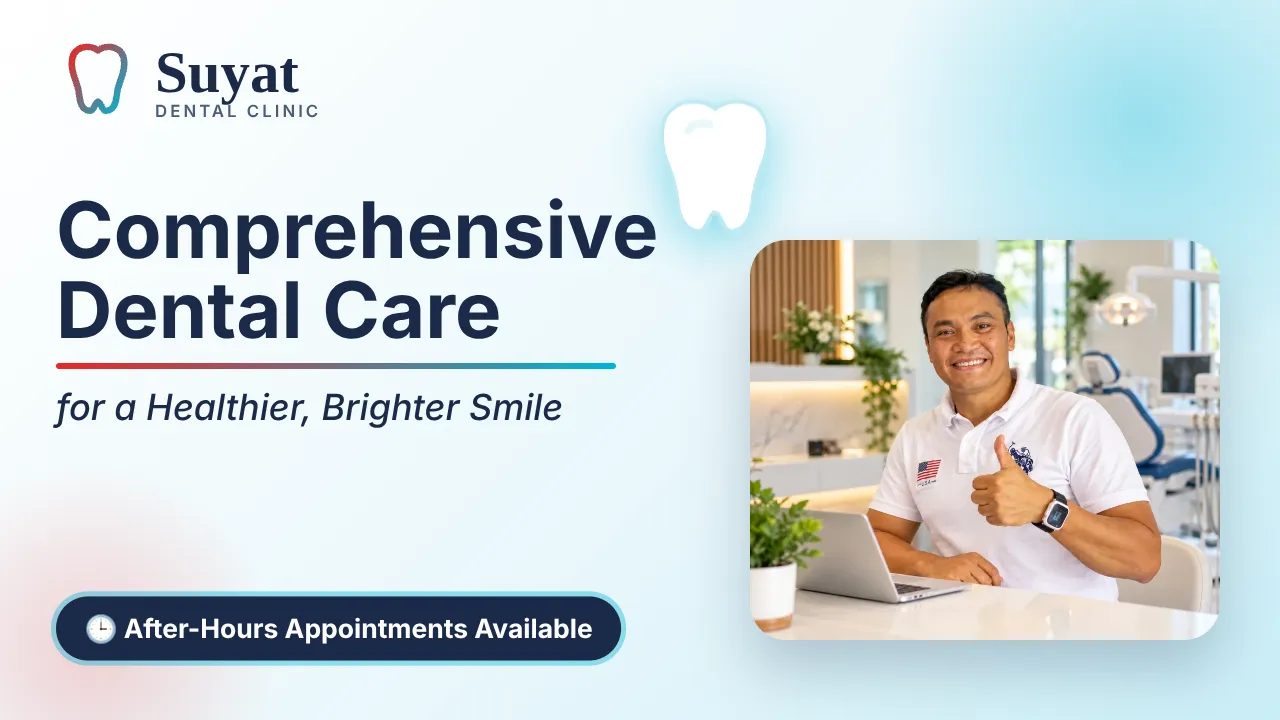
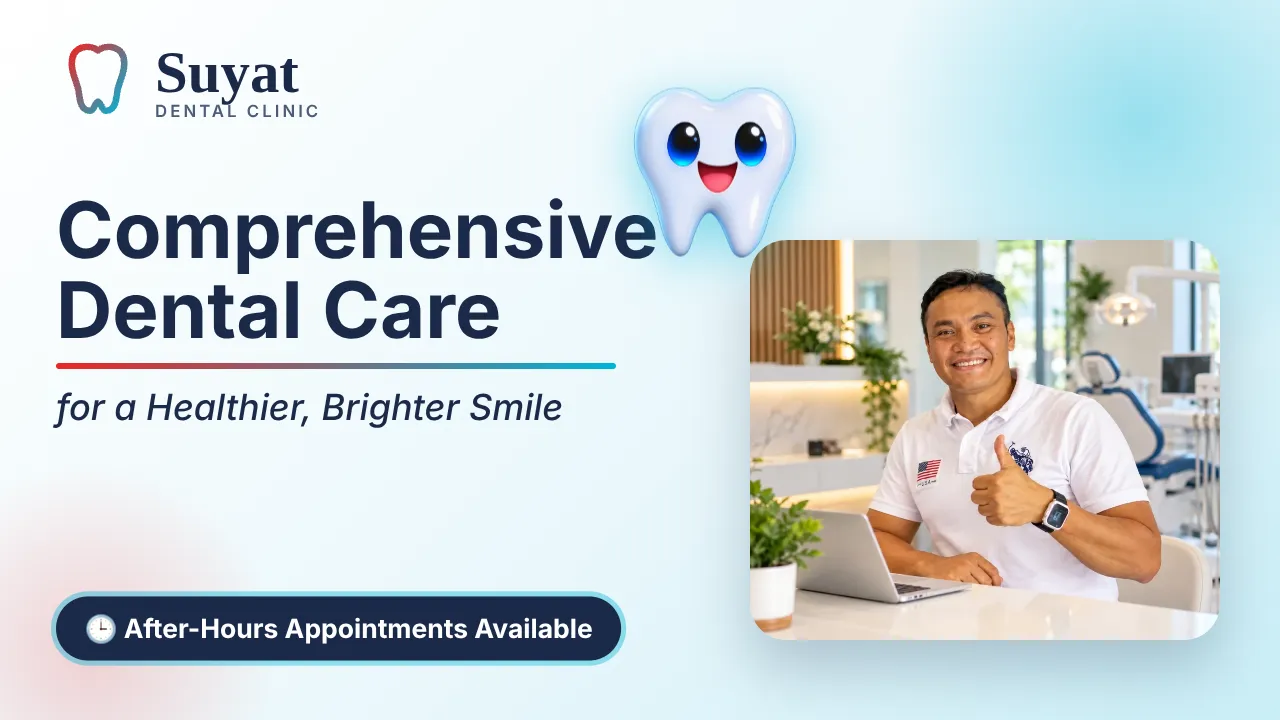
feat(web): tooth mascot as the site receptionist
- Receptionist avatar component with idle/thinking/listening/speaking states (reduced-motion safe)
- Used in chat header, bot messages, call modal, hero reel, and a floating 'Need help booking?' button
- Mascot cutout cleaned of edge specks; webp 512/128 added; name/image configurable in CLINIC

Claude-Session: https://claude.ai/code/session_01Xw22wCxDq376Az2oHFCgJc

Changed region(s): [[0.4688, 0.1222, 0.6562, 0.3667]]

diff --git a/web/src/components/ChatPanel.tsx b/web/src/components/ChatPanel.tsx
@@ -4,6 +4,7 @@ import { useChat } from '../hooks/useChat';
 import { speak, stopSpeaking, useSpeechInput } from '../hooks/useSpeech';
 import { RemotionClip, type Clip } from './RemotionPlayer';
 import { CallModal } from './CallModal';
+import { Receptionist, type ReceptionistState } from './Receptionist';
 
 export interface Pending {
   text: string;
@@ -58,6 +59,7 @@ export function ChatPanel({ pending }: { pending: Pending | null }) {
   useEffect(() => () => stopSpeaking(), []);
 
   const state = mic.listening ? 'listening' : speaking ? 'speaking' : 'idle';
+  const face: ReceptionistState = busy ? 'thinking' : state;
 
   const toggleMic = () => {
     setMicNote('');
@@ -68,11 +70,14 @@ export function ChatPanel({ pending }: { pending: Pending | null }) {
   return (
     <div className="assistant">
       <div className="assistant-head">
-        <div>
-          <h3>24/7 AI Receptionist</h3>
-          <p className="muted small" aria-live="polite">
-            {mic.listening ? 'Listening…' : speaking ? 'Speaking…' : busy ? 'Typing…' : 'Online now'}
-          </p>
+        <div className="assistant-id">
+          <Receptionist size={64} state={face} />
+          <div>
+            <h3>{CLINIC.receptionistName}</h3>
+            <p className="muted small" aria-live="polite">
+              24/7 AI receptionist · {mic.listening ? 'Listening…' : speaking ? 'Speaking…' : busy ? 'Typing…' : 'Online now'}
+            </p>
+          </div>
         </div>
         <div className="seg" role="group" aria-label="Assistant">
           <button aria-pressed={mode === 'local'} onClick={() => setMode('local')}>{CLINIC.shortName}</button>
@@ -85,6 +90,7 @@ export function ChatPanel({ pending }: { pending: Pending | null }) {
       <div ref={log} className="chat-log" role="log" aria-live="polite" aria-label="Conversation">
         {messages.map((m) => (
           <div key={m.id} className={`msg ${m.role}`}>
+            {m.role !== 'user' && <Receptionist size={32} ring={false} />}
             <span className="bubble">
               {m.text}
               {m.receiptUrl && (
@@ -97,6 +103,7 @@ export function ChatPanel({ pending }: { pending: Pending | null }) {
         ))}
         {busy && (
           <div className="msg bot" aria-hidden>
+            <Receptionist size={32} ring={false} state="thinking" />
             <span className="bubble typing"><i /><i /><i /></span>
           </div>
         )}

diff --git a/web/src/styles/app.css b/web/src/styles/app.css
@@ -167,3 +167,24 @@ input:focus-visible, select:focus-visible { border-color: var(--cyan); }
   *, *::before, *::after { animation-duration: .001ms !important; animation-iteration-count: 1 !important; transition-duration: .001ms !important; }
   .reveal { opacity: 1; transform: none; }
 }
+
+/* ===== Receptionist avatar ===== */
+.avatar { position: relative; display: inline-grid; place-items: center; flex: none; border-radius: 50%; }
+.avatar img { width: 100%; height: 100%; object-fit: contain; display: block; transform-origin: 50% 90%; }
+.avatar--ring { background: var(--cyan-soft); box-shadow: inset 0 0 0 2px var(--border); padding: 6%; }
+.avatar--idle img { animation: avatar-float 4s ease-in-out infinite; }
+.avatar--thinking img { animation: avatar-tilt 1.2s ease-in-out infinite; }
+.avatar--speaking img { animation: avatar-talk .45s ease-in-out infinite; }
+.avatar--listening { box-shadow: 0 0 0 3px var(--red); animation: avatar-pulse 1.2s ease-out infinite; }
+@keyframes avatar-float { 50% { transform: translateY(-4%); } }
+@keyframes avatar-tilt { 25% { transform: rotate(-6deg); } 75% { transform: rotate(6deg); } }
+@keyframes avatar-talk { 50% { transform: scale(1.06, 0.95); } }
+@keyframes avatar-pulse { 70% { box-shadow: 0 0 0 12px rgba(234, 40, 37, 0); } 100% { box-shadow: 0 0 0 3px var(--red); } }
+.assistant-id { display: flex; align-items: center; gap: 14px; min-width: 0; }
+.msg { align-items: flex-end; gap: 8px; }
+.msg.user { justify-content: flex-end; }
+.call-face { display: grid; place-items: center; padding-top: 4px; }
+.fab { position: fixed; right: max(16px, env(safe-area-inset-right)); bottom: max(16px, env(safe-area-inset-bottom)); z-index: 60; display: flex; align-items: center; gap: 10px; padding: 6px 18px 6px 6px; min-height: 56px; border: 2px solid var(--border); border-radius: 999px; background: var(--surface); color: var(--text); box-shadow: var(--shadow); font: 700 .95rem var(--font); cursor: pointer; animation: rise .6s 1.2s both; transition: transform .2s; }
+.fab:hover { transform: translateY(-2px); }
+@media (max-width: 520px) { .fab__label { display: none; } .fab { padding: 4px; } }
+@media (prefers-reduced-motion: reduce) { .avatar img, .avatar--listening, .fab { animation: none !important; } }

diff --git a/web/src/components/CallModal.tsx b/web/src/components/CallModal.tsx
@@ -2,6 +2,7 @@ import { useEffect, useRef, useState } from 'react';
 import { CLINIC } from '../config/clinic';
 import { speak, stopSpeaking, useSpeechInput } from '../hooks/useSpeech';
 import { RemotionClip, type Clip } from './RemotionPlayer';
+import { Receptionist } from './Receptionist';
 
 interface Line { who: 'you' | 'clinic'; text: string }
 
@@ -89,6 +90,7 @@ export function CallModal({ onClose }: { onClose: () => void }) {
     <div className="modal-backdrop" onMouseDown={(e) => e.target === e.currentTarget && close()}>
       <div ref={dlg} className="modal call" role="dialog" aria-modal="true" aria-labelledby="call-title">
         <h3 id="call-title">{CLINIC.name} — virtual call <span className="muted" aria-label={`Call time ${mm}:${ss}`}>{mm}:{ss}</span></h3>
+        <div className="call-face"><Receptionist size={112} state={mic.listening ? 'listening' : speaking ? 'speaking' : busy ? 'thinking' : 'idle'} /></div>
         <RemotionClip clip={wave} className="wave" />
         <div className="transcript" role="log" aria-live="polite">
           {lines.length === 0 && <p className="muted">Tap the microphone and speak. Your browser will ask for permission.</p>}

diff --git a/web/src/remotion/HeroReel.tsx b/web/src/remotion/HeroReel.tsx
@@ -1,7 +1,6 @@
 import React from 'react';
 import { AbsoluteFill, Img, interpolate, spring, staticFile, useCurrentFrame, useVideoConfig } from 'remotion';
 import { C, FONT, FONT_DISPLAY } from './theme';
-import { Tooth } from './Tooth';
 import { Logo } from '../components/Logo';
 import { CLINIC } from '../config/clinic';
 
@@ -76,7 +75,7 @@ export const HeroReel: React.FC = () => {
       </div>
 
       <div style={{ position: 'absolute', right: (vertical ? 60 : 480) * u, top: (vertical ? 470 : 80) * u, transform: `translateY(${float}px) scale(${tooth}) rotate(${interpolate(tooth, [0, 1], [-30, 0])}deg)` }}>
-        <Tooth size={(vertical ? 220 : 170) * u} />
+        <Img src={staticFile('images/receptionist.webp')} style={{ width: (vertical ? 220 : 170) * u, height: (vertical ? 220 : 170) * u, filter: 'drop-shadow(0 12px 24px rgba(0,180,216,.45))' }} />
       </div>
 
       <div

diff --git a/web/src/pages/Landing.tsx b/web/src/pages/Landing.tsx
@@ -2,6 +2,8 @@ import { useCallback, useState } from 'react';
 import { Header } from '../components/Header';
 import { Branches, Footer, Hero, HowItWorks, Services } from '../components/Sections';
 import { ChatPanel, type Pending } from '../components/ChatPanel';
+import { Receptionist } from '../components/Receptionist';
+import { CLINIC } from '../config/clinic';
 
 export default function Landing() {
   const [pending, setPending] = useState<Pending | null>(null);
@@ -27,6 +29,10 @@ export default function Landing() {
         </section>
         <Branches />
       </main>
+      <button className="fab" onClick={() => book()} aria-label={`Chat with ${CLINIC.receptionistName} to book an appointment`}>
+        <Receptionist size={56} ring={false} />
+        <span className="fab__label">Need help booking?</span>
+      </button>
       <Footer />
     </>
   );

diff --git a/web/src/components/Receptionist.tsx b/web/src/components/Receptionist.tsx
@@ -1,0 +1,18 @@
+import { CLINIC } from '../config/clinic';
+
+export type ReceptionistState = 'idle' | 'thinking' | 'listening' | 'speaking';
+
+/** The receptionist's face. State drives a CSS animation; animation is disabled under reduced motion. */
+export function Receptionist({ size = 56, state = 'idle', ring = true }: { size?: number; state?: ReceptionistState; ring?: boolean }) {
+  return (
+    <span className={`avatar avatar--${state}${ring ? ' avatar--ring' : ''}`} style={{ width: size, height: size }}>
+      <img
+        src={size > 72 ? CLINIC.receptionistImage : CLINIC.receptionistImageSmall}
+        alt={`${CLINIC.receptionistName}, the ${CLINIC.name} virtual receptionist`}
+        width={size}
+        height={size}
+        decoding="async"
+      />
+    </span>
+  );
+}

diff --git a/web/src/config/clinic.ts b/web/src/config/clinic.ts
@@ -17,6 +17,9 @@ export const CLINIC = {
   heroLead: 'for a healthier, brighter smile — book in minutes with our 24/7 AI receptionist.',
   welcome:
     'Mabuhay! I’m the Suyat Dental virtual receptionist. I can check slots, book, reschedule or cancel — anytime. How can I help?',
+  receptionistName: 'Suyat Assistant',   // the mascot's name in the UI
+  receptionistImage: '/images/receptionist.webp',
+  receptionistImageSmall: '/images/receptionist-128.webp',
   sessionKey: 'suyat_session_id',  // localStorage key for the chat session
   csvPrefix: 'suyat',              // admin CSV export file name prefix
 } as const;

diff --git a/docs/NEW-CLIENT.md b/docs/NEW-CLIENT.md
@@ -16,6 +16,7 @@ This repo is a working sample personalised for **Suyat Dental Clinic**. To perso
 | Colours, spacing, type, motion | `web/src/styles/tokens.css` + `web/DESIGN.md` | Change the brand primitives (`--cyan`, `--red`, `--navy`, `--orange`, `--cyan-N`, `--ink-N`, `--color-action`) and re-check contrast (spec rules in DESIGN.md) |
 | Page title, description, social tags | `web/index.html` | Edit `<title>` and meta tags; update the canonical URL |
 | Logo | `web/src/components/Logo.tsx` | The wordmark text comes from `CLINIC`; replace the component with the client's transparent logo if they have one |
+| Receptionist mascot | `web/public/images/receptionist.webp` (512px) + `receptionist-128.webp`; name in `CLINIC.receptionistName` | Replace both files with the client's mascot (transparent PNG → webp; clean any edge specks) and rename it |
 | Hero images | `web/public/images/` | Replace `dentist-thumbs-up.webp`, `schedule-phone-mockup.webp`; then `npm run render:clips` to regenerate the poster stills |
 
 After editing, run `npm run build:web` and `npm run render:clips` (regenerates the animated hero poster from the same config).
